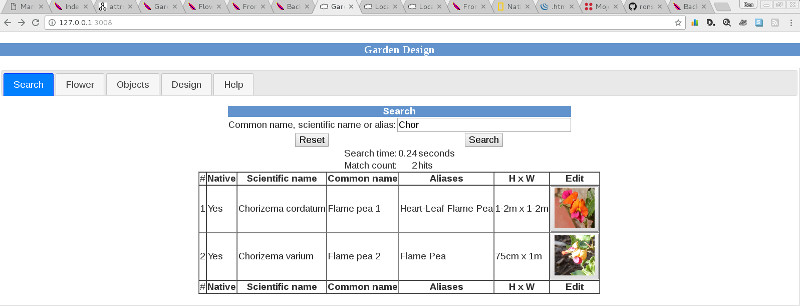
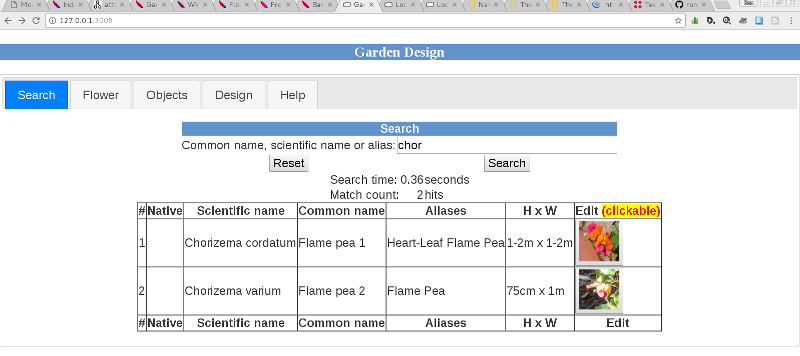
Rename Flower tab to Details

Changed region(s): [[0.0, 0.0, 1.0, 1.0], [0.1562, 0.7941, 0.1875, 0.8529], [0.1562, 0.6471, 0.1875, 0.7059]]

diff --git a/html/Garden.Design.Software.html b/html/Garden.Design.Software.html
@@ -7,7 +7,7 @@
 <!--
   generated by Local::Pod::Simple::HTML v1.05,
   using Pod::Simple::PullParser v3.30,
-  under Perl v5.020002 at Fri Dec 23 00:17:53 2016 GMT.
+  under Perl v5.020002 at Fri Dec 23 02:39:32 2016 GMT.
 
  If you want to change this HTML document, you probably shouldn't do that
    by changing it directly.  Instead, see about changing the calling options

diff --git a/public/assets/css/www/garden/design/homepage.css b/public/assets/css/www/garden/design/homepage.css
@@ -14,7 +14,7 @@
 
 body
 {
-	font-size:	1.2em;
+	font-size:	1.5em;
 	margin:		0;
 	padding:	0;
 }

diff --git a/templates/initialize/details.php b/templates/initialize/details.php
@@ -1,0 +1,49 @@
+<table align = 'center'>
+	<tr>
+		<td colspan = '3'><div class = 'blue_centered'>Details</div><br /></td>
+	</tr>
+	<tr>
+		<td rowspan = '7'>
+			<table class = 'table_margin_auto'>
+				<tr>
+					<td><span id = 'details_thumbnail'></span>&nbsp;&nbsp;&nbsp;&nbsp;&nbsp;</td>
+				</tr>
+			</table>
+		</td>
+		<td>
+			<table class = 'table_margin_auto'>
+				<tr>
+					<td>Common name:</td>
+					<td align = 'left'><input id = 'details_common_name' type = 'text' size = '50' maxlength = '100'></td>
+				</tr>
+				<tr>
+					<td>Scientific name:</td>
+					<td align = 'left'><input id = 'details_scientific_name' type = 'text' size = '50' maxlength = '100'></td>
+				</tr>
+				<tr>
+					<td>Aliases:</td>
+					<td align = 'left'><input id = 'details_aliases' type = 'text' size = '50' maxlength = '255'></td>
+				</tr>
+				<tr>
+					<td>Height:</td>
+					<td align = 'left'><input id = 'details_height' type = 'text' size = '10'></td>
+				</tr>
+				<tr>
+					<td>Width:</td>
+					<td align = 'left'><input id = 'details_width' type = 'text' size = '10'></td>
+				</tr>
+				<tr>
+					<td>
+						<br>
+					</td>
+				</tr>
+				<tr>
+					<td align = 'center'><input type = 'reset'  value = 'Reset'  /></td>
+					<td align = 'center'><%= submit_button 'Save' %></td>
+				</tr>
+			</table>
+		</td>
+	</tr>
+</table>
+
+<div id = 'details_result_div'></div>
